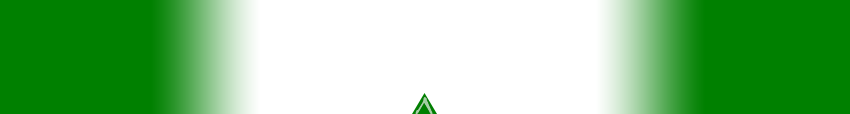
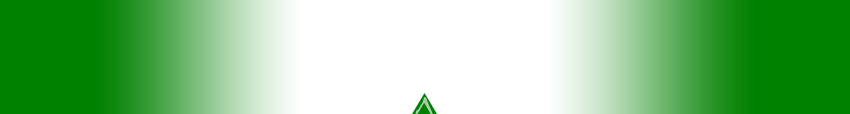
более шировкая рамка колеса

Changed region(s): [[0.6729, 0.0, 0.8565, 1.0], [0.1224, 0.0, 0.2447, 1.0], [0.2753, 0.0, 0.3365, 1.0]]

diff --git a/styles/horrorWheel.css b/styles/horrorWheel.css
@@ -15,7 +15,7 @@ body{
 	position: absolute;
   left: 50%;
   transform: translateX(-50%);
-  top: 631px;
+  top: 628px;
   z-index: 3;
 }
 
